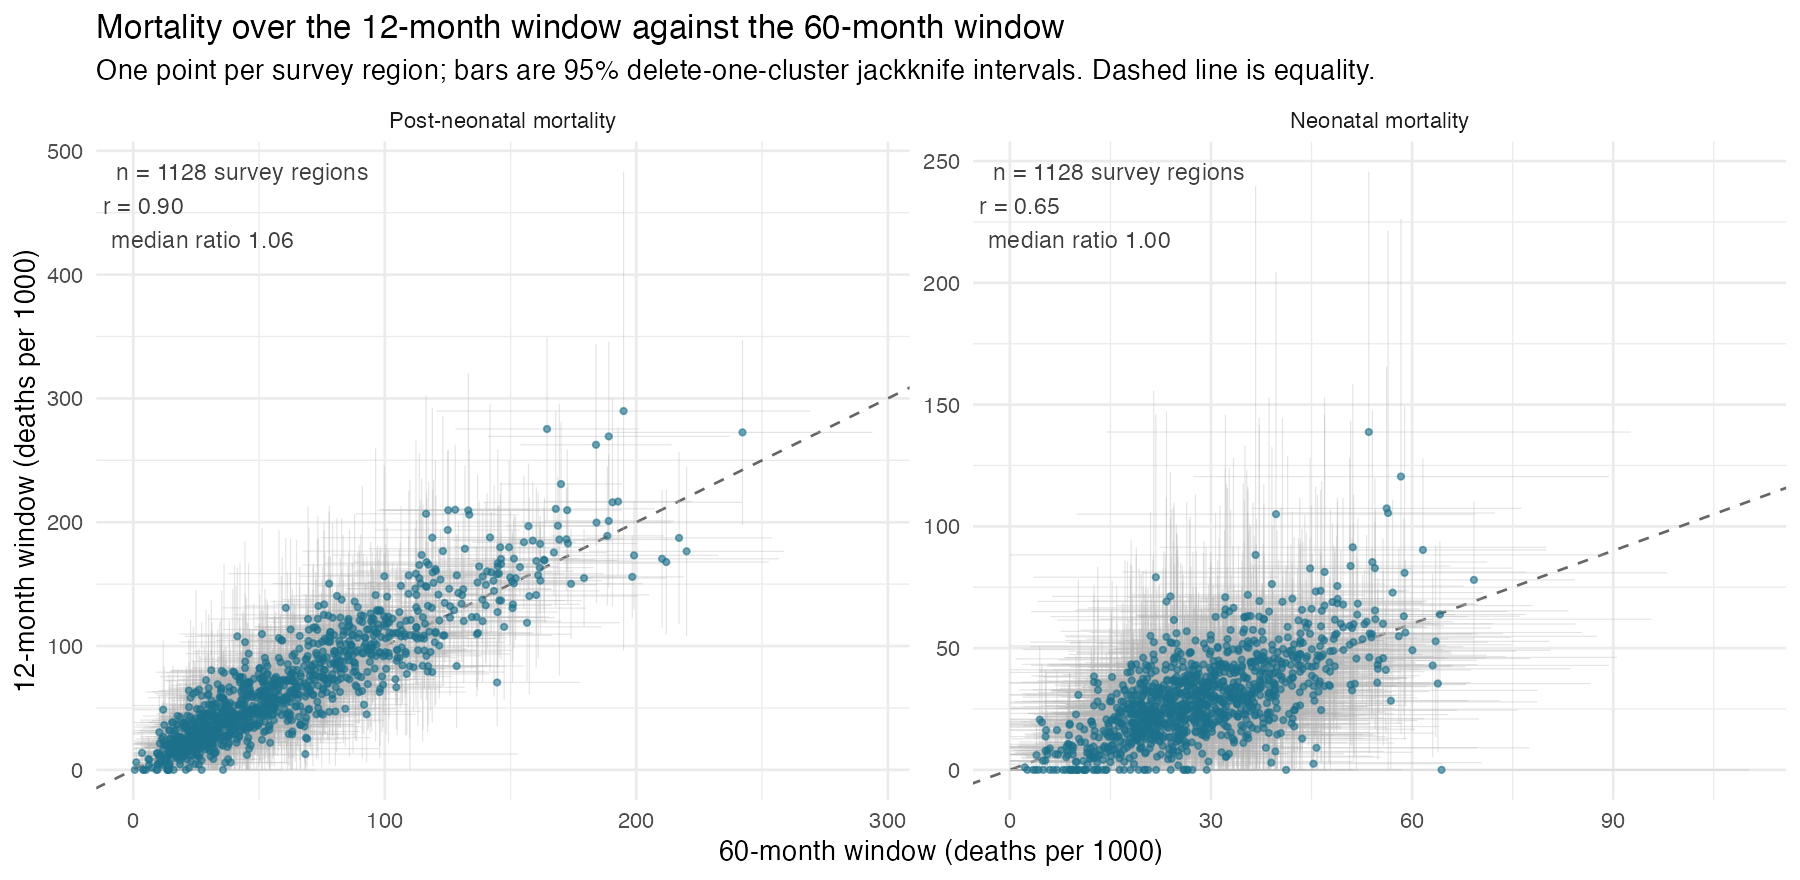
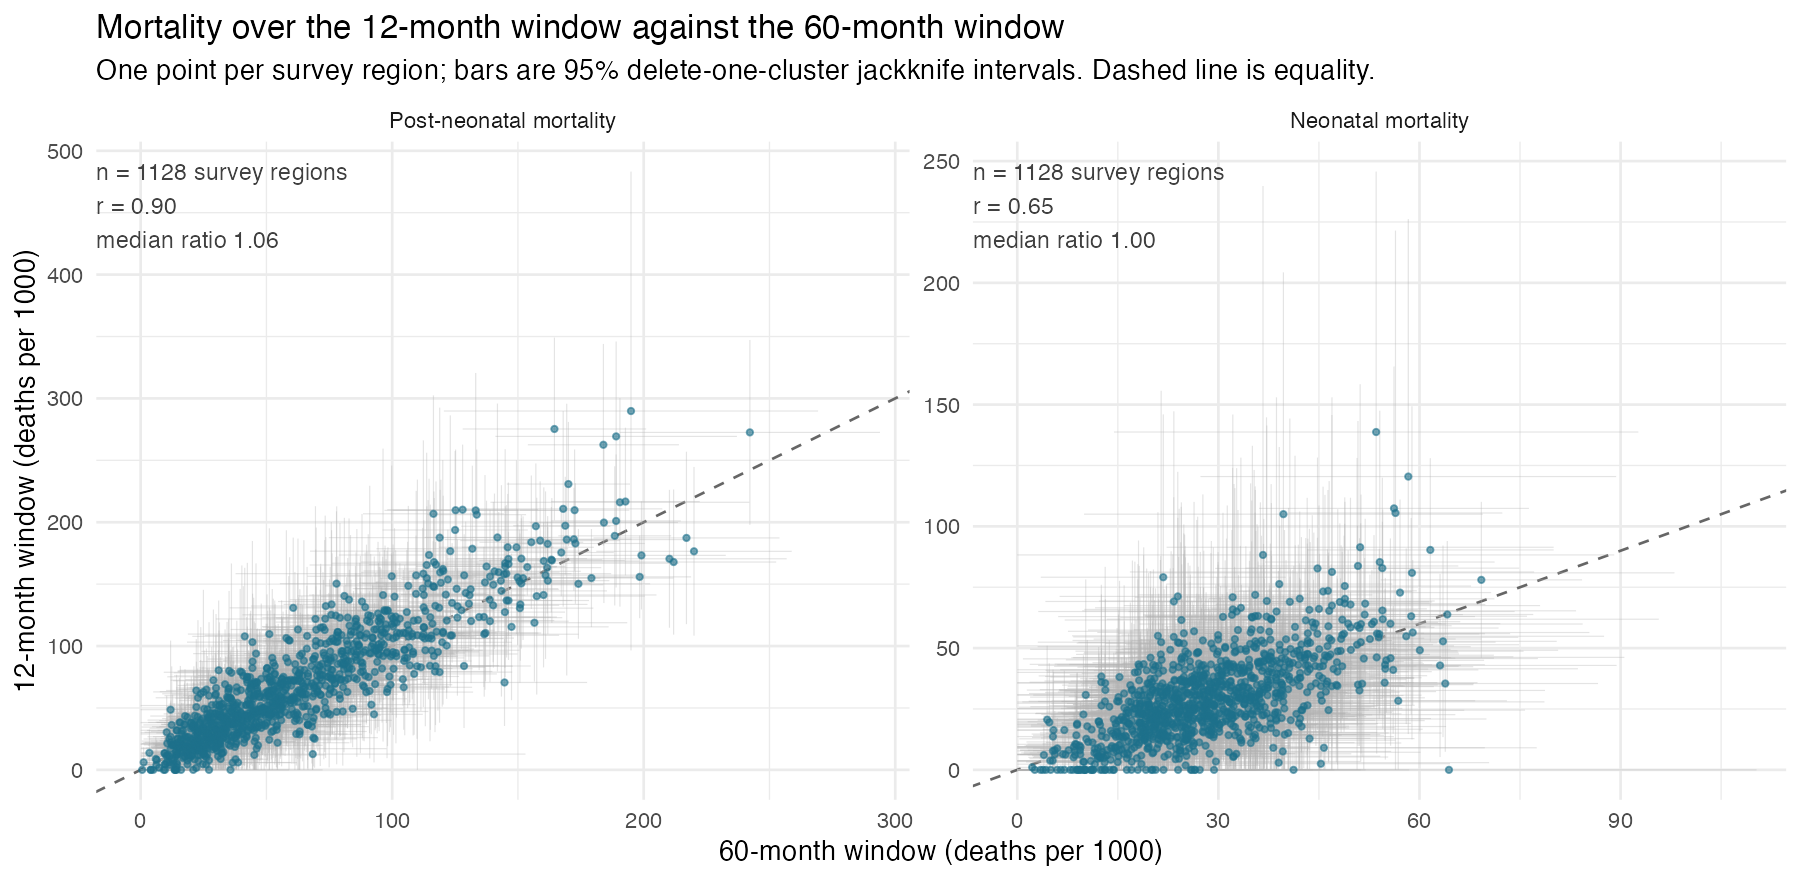
Left-align the multi-line annotations in figures 8b and 19
A negative hjust shifts each line by its own width, so lines of different
length staggered. Use hjust = 0 with axis expansion for the padding, and
wrap figure 19's subtitle.

diff --git a/Key results/README.md b/Key results/README.md
@@ -11,6 +11,6 @@ The primary analysis uses the 12-month mortality window and MAP prevalence in th
 | `subgroup_curves_neonatal.png` | The same dose-response curves for neonatal mortality, the negative control. Not clipped at zero, so a null effect can sit on the zero line. | `31_brms_subgroup_fits.R with BRMS_OUTCOME=neonatal` (`figure15_brms_subgroup_curves_neonatal.png`) | 2026-09-02 07:55 |
 | `subgroup_af_10_30_50_neonatal.png` | The same 10, 30 and 50% anchors for neonatal mortality, the negative control. | `31_brms_subgroup_fits.R with BRMS_OUTCOME=neonatal` (`figure13_brms_subgroup_af_neonatal.png`) | 2026-09-02 07:55 |
 | `survey_map_and_timing.png` | Countries contributing to the panel and when each DHS/MIS survey was fielded; point size gives the number of survey regions. | `28_survey_map.R` (`figure10_survey_map.png`) | 2026-09-02 07:55 |
-| `mortality_12_vs_60_month_window.png` | Region-level mortality estimated over the 12-month window (the primary analysis) against the 60-month window, for post-neonatal and neonatal mortality, with 95% delete-one-cluster jackknife intervals. | `27_horizon_lag_selection.R` (`figure8b_horizon_12_vs_60.png`) | 2026-09-02 07:55 |
+| `mortality_12_vs_60_month_window.png` | Region-level mortality estimated over the 12-month window (the primary analysis) against the 60-month window, for post-neonatal and neonatal mortality, with 95% delete-one-cluster jackknife intervals. | `27_horizon_lag_selection.R` (`figure8b_horizon_12_vs_60.png`) | 2026-09-02 10:21 |
 | `map_vs_measured_prevalence.png` | MAP modelled PfPR2-10 against parasitaemia measured directly in the DHS/MIS surveys that tested children 6-59 months (RDT, or microscopy where available, converted to a microscopy-equivalent and age-standardised to 2-10 years), by era of fieldwork. | `21_map_vs_measured_prevalence.R` (`map_vs_measured_scatter.png`) | 2026-09-02 07:54 |
 | `model_structure_kfold_by_survey.png` | Survey-grouped 10-fold cross-validation of how prevalence and calendar time enter the post-neonatal model: additive s(pfpr10) + s(year_c), the curve shifting linearly in time, and the full t2 surface. One point per held-out survey, showing its log predictive density relative to the additive model; totals, standard errors and stacking weights in the subtitle. | `35_brms_ladder_kfold.R` (`figure18_brms_ladder_kfold.png`) | 2026-09-02 09:34 |
